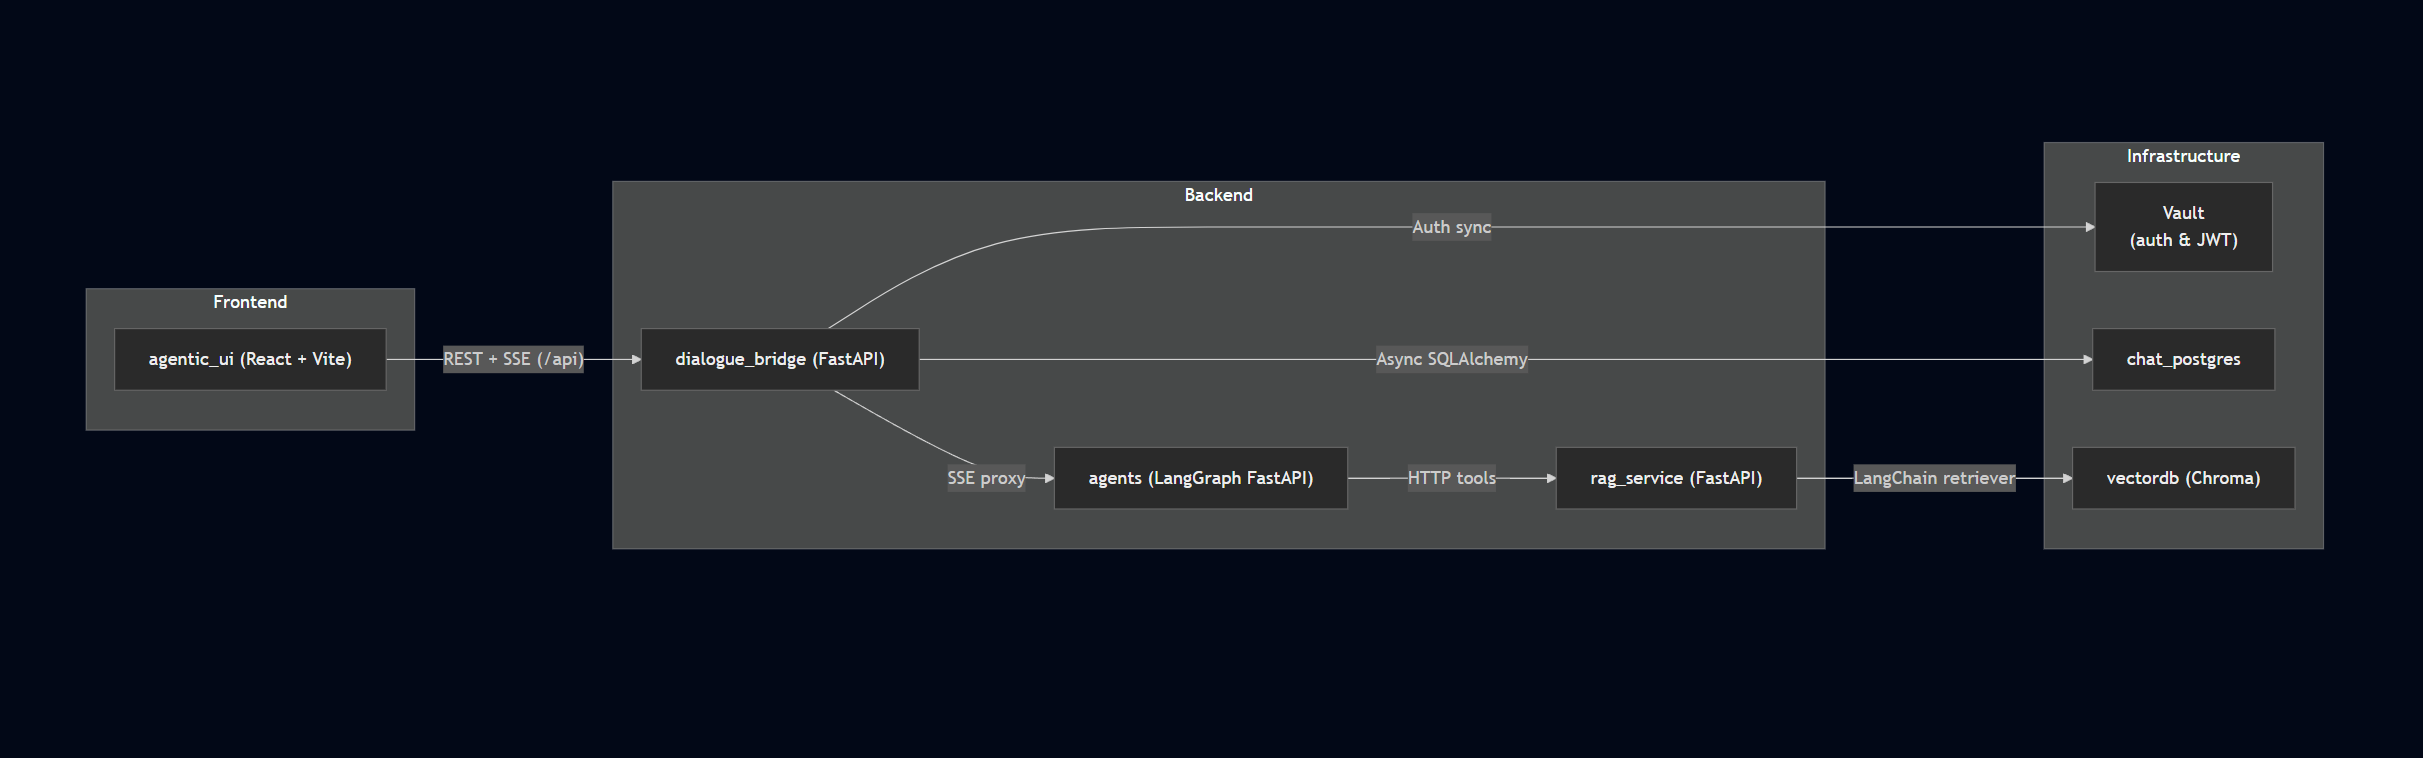
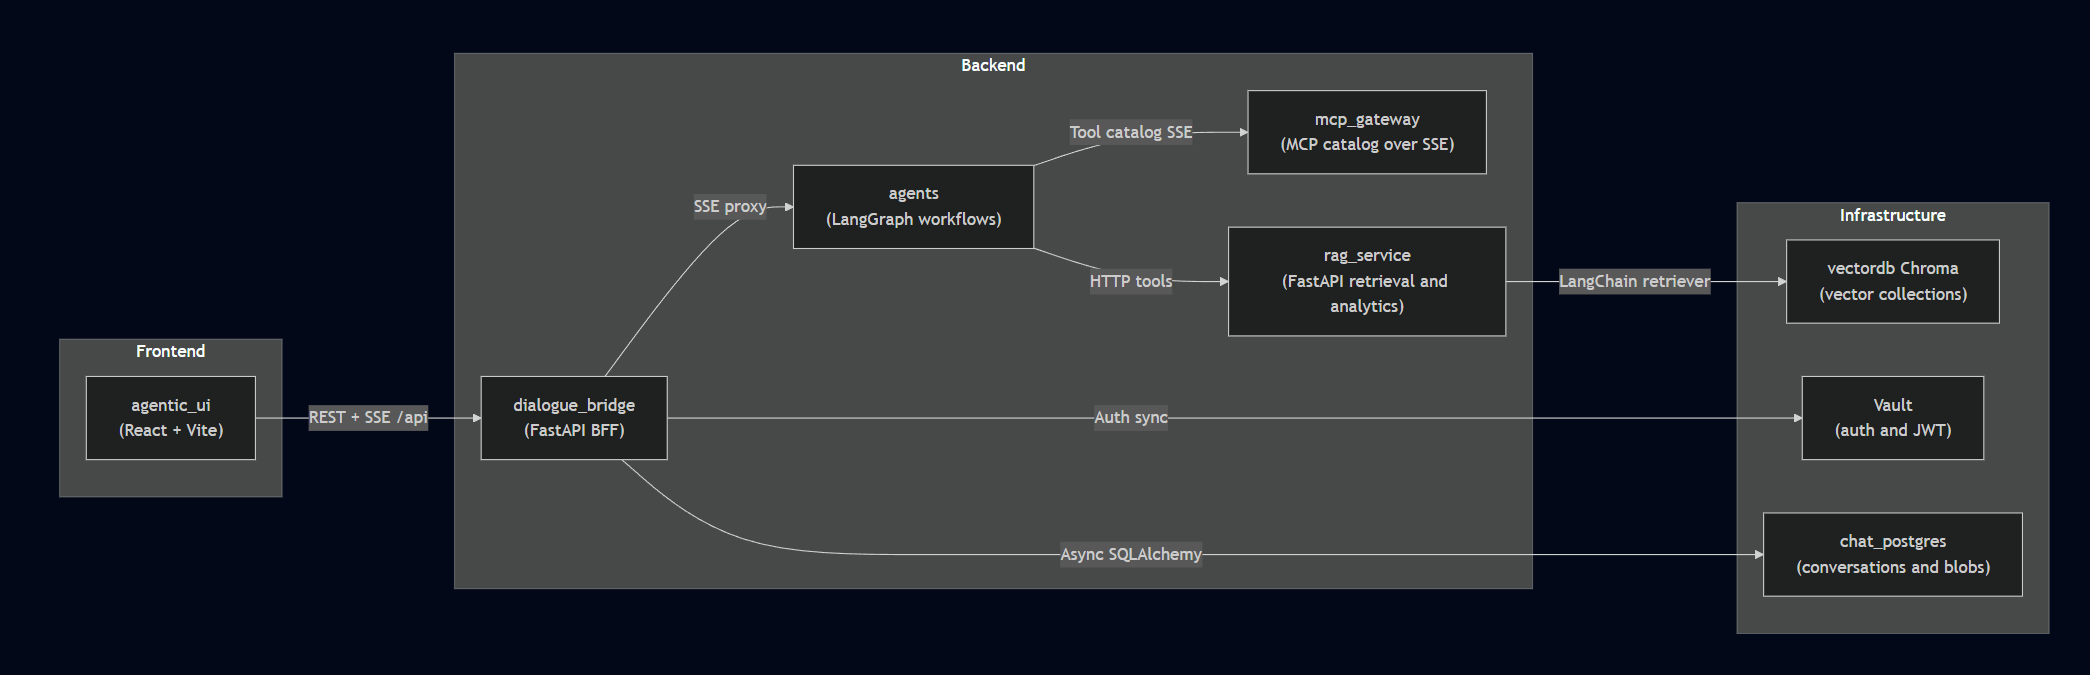
documentation update

diff --git a/src/agentic_ui/src/components/handlers/conversations.ts b/src/agentic_ui/src/components/handlers/conversations.ts
@@ -63,6 +63,7 @@ export function createConversationHandlers(ctx: ConversationsCtx) {
     persistUIState,
   } = ctx;
 
+
   const clearChatAndStopThinking = (options?: { preserveAgent?: boolean }) => {
     handleStopStreaming?.();
     setIsClearing(true);
@@ -84,13 +85,16 @@ export function createConversationHandlers(ctx: ConversationsCtx) {
     }, 200);
   };
 
+
   const handleTitleClick = () => {
     clearChatAndStopThinking();
   };
 
+
   const handleNewChat = () => {
     clearChatAndStopThinking();
   };
+
 
   const handleConversationSelect = async (conversation: ConversationSummary) => {
     handleStopStreaming?.();
@@ -130,6 +134,7 @@ export function createConversationHandlers(ctx: ConversationsCtx) {
     }, CLEAR_DELAY_MS);
   };
 
+
   const handleLoadMoreConversations = async () => {
     if (!userId || convIsLoadingMore || !convHasMore) return;
     setConvIsLoadingMore(true);
@@ -159,6 +164,7 @@ export function createConversationHandlers(ctx: ConversationsCtx) {
     }
   };
 
+
   const handleDeleteConversation = async (conversationId: string, event?: React.MouseEvent) => {
     event?.stopPropagation();
     if (!userId) return;
@@ -174,6 +180,7 @@ export function createConversationHandlers(ctx: ConversationsCtx) {
     }
   };
 
+
   const handleDeleteCurrentConversation = () => {
     if (!currentConversation?.id) {
       toast({ title: 'No conversation selected', description: 'Select a conversation to delete first.', duration: 2000 });
@@ -181,6 +188,7 @@ export function createConversationHandlers(ctx: ConversationsCtx) {
     }
     void handleDeleteConversation(currentConversation.id);
   };
+
 
   const handleRenameConversation = async (conversationId: string, newTitle: string) => {
     const trimmed = (newTitle || "").trim();
@@ -232,6 +240,7 @@ export function createConversationHandlers(ctx: ConversationsCtx) {
     }
   };
 
+
   const handleArchiveConversation = (conversationId?: string | null) => {
     if (!conversationId) {
       toast({ title: 'No conversation selected', description: 'Select a conversation to archive first.', duration: 2000 });
@@ -239,6 +248,7 @@ export function createConversationHandlers(ctx: ConversationsCtx) {
     }
     toast({ title: 'Archive coming soon', description: 'Conversation archiving is not available yet.', duration: 2500 });
   };
+
 
   const handleReportConversation = (conversationId?: string | null) => {
     if (!conversationId) {
@@ -248,21 +258,16 @@ export function createConversationHandlers(ctx: ConversationsCtx) {
     toast({ title: 'Report coming soon', description: 'Conversation reporting will be available soon.', duration: 2500 });
   };
 
+
   const handleArchiveCurrentConversation = () => {
     handleArchiveConversation(currentConversation?.id);
   };
+
 
   const handleReportCurrentConversation = () => {
     handleReportConversation(currentConversation?.id);
   };
 
-  const handleRenameCurrentConversation = (newTitle: string) => {
-    if (!currentConversation?.id) {
-      toast({ title: 'No conversation selected', description: 'Select a conversation to rename first.', duration: 2000 });
-      return;
-    }
-    void handleRenameConversation(currentConversation.id, newTitle);
-  };
 
   const handleOpenSearch = () => {
     if (ctx.onSearch) {
@@ -276,6 +281,7 @@ export function createConversationHandlers(ctx: ConversationsCtx) {
     });
   };
 
+
   return {
     handleConversationSelect,
     handleDeleteConversation,
@@ -287,7 +293,6 @@ export function createConversationHandlers(ctx: ConversationsCtx) {
     handleRenameConversation,
     handleArchiveConversation,
     handleReportConversation,
-    handleRenameCurrentConversation,
     handleArchiveCurrentConversation,
     handleReportCurrentConversation,
     handleOpenSearch,

diff --git a/src/agentic_ui/src/components/chat/ChatMessage.tsx b/src/agentic_ui/src/components/chat/ChatMessage.tsx
@@ -1,4 +1,4 @@
-import React, { useMemo } from "react";
+import { useMemo } from "react";
 import { Card } from "@/components/ui/card";
 import { Button } from "@/components/ui/button";
 import type { Agent, MessageOut, ThinkingState } from "@/lib/types";
@@ -9,10 +9,10 @@ import {
   ChainOfThoughtContent,
   ChainOfThoughtHeader,
 } from "@/components/ui/ai-elements/chain-of-thought";
-import { AIActionBar, UserActionBar } from "./body_parts/ActionBars";
-import { MessageAttachments } from "./body_parts/MessageAttachments";
-import { CoT, buildCoTSteps } from "./body_parts/ChainOfThought";
-import { MessageContent } from "./body_parts/MessageContent";
+import { AIActionBar, UserActionBar } from "./message_parts/ActionBars";
+import { MessageAttachments } from "./message_parts/MessageAttachments";
+import { CoT, buildCoTSteps } from "./message_parts/ChainOfThought";
+import { MessageContent } from "./message_parts/MessageContent";
 import { ShimmeringText } from "@/components/ui/shadcn-io/shimmering-text";
 
 type ChatMessageProps = {

diff --git a/src/agentic_ui/src/components/chat/ChatBody.tsx b/src/agentic_ui/src/components/chat/ChatBody.tsx
@@ -7,7 +7,7 @@ import type {
   MessageOut,
   ThinkingState,
 } from "@/lib/types";
-import type { AttachmentLike } from "./body_parts/MessageAttachments";
+import type { AttachmentLike } from "./message_parts/MessageAttachments";
 import { ChatMessage } from "./ChatMessage";
 
 type ChatBody = {

diff --git a/src/agentic_ui/src/pages/ChatPage.tsx b/src/agentic_ui/src/pages/ChatPage.tsx
@@ -484,7 +484,6 @@ export function ChatInterface() {
     handleRenameConversation,
     handleArchiveConversation,
     handleReportConversation,
-    handleRenameCurrentConversation,
     handleArchiveCurrentConversation,
     handleReportCurrentConversation,
     handleOpenSearch,

diff --git a/README.md b/README.md
@@ -23,6 +23,7 @@ The repository is organised as a suite of services that can run together through
 | Experience | `agentic_ui` renders the chat experience, handles auth/session lifecycle, and visualises AG-UI events. | React 18, Vite, Tailwind, Radix |
 | Orchestration | `dialogue_bridge` authenticates via HashiCorp Vault, persists conversations, and proxies LangGraph streams. | FastAPI, SQLAlchemy, asyncpg |
 | Intelligence | `agents` hosts persona-specific LangGraph workflows for OrthodoxAI, HR Policies, and Retail assistants. | LangGraph, LangChain, OpenAI |
+| Tool Catalog | `mcp_gateway` publishes a curated MCP tool catalog over SSE for the agents service. | Docker MCP Gateway |
 | Retrieval & Analytics | `rag_service` provides document retrieval and Excel/DuckDB analytics. `vectordb` stores persistent embeddings. | FastAPI, DuckDB, Chroma |
 | Storage & Security | `chat_postgres` and the Vault service give durable storage plus token issuance for the stack. | PostgreSQL, HashiCorp Vault |
 
@@ -37,6 +38,7 @@ The repository is organised as a suite of services that can run together through
 | `vectordb` | Internal Chroma server storing embeddings. | internal:8000 |
 | `chat_postgres` | Conversation and attachment persistence. | localhost:5432 |
 | `vault` | HashiCorp Vault for login + JWT issuance (internal network). | internal service |
+| `mcp_gateway` | MCP catalog over SSE consumed by the agents service. | internal:8005 |
 
 ## Request Flow
 
@@ -95,11 +97,40 @@ Run services independently when iterating. Each README in the corresponding dire
 | `src/dialogue_bridge/` | FastAPI bridge, SQLAlchemy models, Vault auth helpers. |
 | `src/agents/` | LangGraph agent templates, FastAPI entrypoint, shared tools. |
 | `src/rag_service/` | Retrieval + analytics microservice and data directory. |
+| `src/mcp_gateway/` | MCP gateway catalog, secrets, and server config for tool discovery. |
 | `src/vectorstores/` | Chroma persistence folder referenced by compose. |
 | `src/vault/` | Vault config, data storage, and bootstrap script. |
 | `notebooks/` | Exploratory notebooks and utilities that informed production code. |
 | `docs/` | Design notes and diagrams (when present). |
 | `src/docker-compose.yaml` | Compose orchestration for the full stack. |
+
+## Visual Walkthroughs
+
+### Network & Service Topology
+
+The first diagram shows how browser traffic hits the host at `localhost:8050`, passes through the agentic_ui Nginx container, and is proxied to the dialogue_bridge. From there SSE streams reach the agents, tool catalog is fetched from the mcp_gateway, retrieval calls go to rag_service, vectors live in Chroma, and chat state persists to Postgres with Vault handling JWTs. The second diagram groups the same services by frontend, backend, and infrastructure layers so you can see the split between UI, BFF + agents + MCP/RAG, and the auth/storage tier.
+
+![Network flow and container ports](docs/Screenshot%202025-10-31%20014810.png)
+![Frontend/Backend/Infra topology](docs/Screenshot%202025-10-31%20014854.png)
+
+### Chat & Data Flows
+
+This sequence captures a full chat turn: the UI posts the user message and attachments to the bridge, which stores them in Postgres, then streams inference via the agents. Agents pull tool manifests from the MCP gateway, optionally execute MCP tools or issue retrieval/analytics requests to rag_service and Chroma, and stream AG-UI frames back. The UI finally saves the AI reply through the bridge into Postgres.
+
+![Chat request lifecycle and RAG interactions](docs/Screenshot%202025-10-31%20014930.png)
+
+### Authentication Flow
+
+Here you can see credentials flowing from the UI to the bridge, then to Vault for userpass login and OIDC token exchange. The bridge receives JWT + client token, upserts the user locally, sets session/refresh cookies, and confirms the signed-in state.
+
+![Vault login, OIDC exchange, and session cookies](docs/Screenshot%202025-10-31%20014954.png)
+
+### Architecture & Platform Overview
+
+The component tree shows the core data plane: agentic_ui consuming REST/SSE from the bridge; the bridge authenticating via Vault, persisting conversations to Postgres, proxying SSE to agents; agents hitting MCP for tool catalogs and RAG for retrieval; RAG talking to Chroma and OpenAI for vectors/embeddings. The platform overview widens the lens to include users/admins, the platform services, and managed stores (Postgres, Vault, Chroma, OpenAI) with the extra admin path into the UI for configuration.
+
+![Component architecture tree](docs/Screenshot%202025-10-31%20015018.png)
+![End-to-end platform view (users, platform, stores/services)](docs/Screenshot%202025-10-31%20015842.png)
 
 ## Tooling & Workflow Tips
 

diff --git a/src/agentic_ui/README.md b/src/agentic_ui/README.md
@@ -3,27 +3,33 @@
 React + Vite 18 single-page app for the mAgenticX chat experience. It talks only to the dialogue bridge, streams AG-UI SSE frames, and renders agent thinking, tool calls, branches, and attachments in real time.
 
 ## What it does
+
 - Authenticates against the bridge, keeps session cookies fresh, and persists the signed-in user locally.
 - Renders the chat workspace with agent switching, paginated conversation history, private-mode toggles, branching, and message editing/retries.
-- Validates and uploads attachments, matching the proxy size limits before posting to the bridge.
-- Streams inference over SSE and paints thinking/tool frames incrementally.
+- Validates and uploads attachments (per-file, aggregate, and base64-inflated payload size) against the 600 MB proxy cap before posting to the bridge.
+- Streams inference over SSE and paints thinking/tool frames incrementally, including branch-aware `messagePath` replies from the bridge.
 - Provides voice dictation in the composer (WebAudio -> `/api/users/{userId}/dictation/transcribe` -> transcript dropped into the draft).
 - Surfaces the MCP tool catalog and per-user tool disablement in the profile panel; preferences are saved through the bridge and respected when sending inference configs.
+- Persists lightweight UI state (agents, tools, conversation summaries, sidebar tab, selected agent, private-mode toggle) in IndexedDB for fast reloads.
 
 ## Code map
+
 - `src/components/ChatPage.tsx` (exports `ChatInterface`) orchestrates the layout, state, streaming lifecycle, UI snapshot persistence, and handler wiring.
 - `src/components/chat/` holds the UI surfaces (header, sidebar, profile panel with MCP tools, message body, input bar with recorder).
-- `src/components/handlers/` are domain-specific state machines for auth/session refresh, agents roster, conversations + pagination, inference streaming, attachments, preferences, and UI affordances like sticky bars and branching.
-- `src/lib/api.ts` wraps every bridge endpoint (auth/session, agents, tools, preferences, dictation, conversations, attachments, inference) with credentialed fetch helpers.
-- `src/lib/uploadGuards.ts`, `src/lib/utils.ts`, `src/lib/authStorage.ts`, and `src/lib/uiStateStorage.ts` cover client-side validation, persistence, and utility helpers.
+- `src/components/handlers/` are domain-specific state machines for auth/session refresh, roster + tools fetch, conversations + pagination, inference streaming (SSE parsing and retries), attachments, preferences, branching, and UI affordances like sticky bars.
+- `src/lib/api.ts` wraps every bridge endpoint (auth/session, agents, tools, preferences, dictation, conversations, attachments, inference) with credentialed fetch helpers and SSE parsing.
+- `src/lib/uploadGuards.ts`, `src/lib/utils.ts`, `src/lib/authStorage.ts`, and `src/lib/uiStateStorage.ts` cover client-side validation (size limits aligned with Nginx), persistence, and utility helpers.
 - `nginx.conf`, Tailwind config, and the Dockerfile live here for production builds; the Nginx config bumps `client_max_body_size` and keeps SSE unbuffered.
 
 ## API expectations
+
 - The dev server runs on `http://localhost:8080`; `/api/*` must be proxied to the dialogue bridge (Compose already routes to `dialogue_bridge:8002`).
 - Voice dictation uses the bridge proxy for `/users/{userId}/dictation/transcribe` and expects `gpt-4o-transcribe` on the agents service.
 - MCP tool discovery/preferences use `/api/tools` and `/api/users/{userId}/preferences`, then annotate inference requests with the enabled tools list.
+- Nginx disables response buffering for `/api/*` so SSE frames and attachment downloads remain streaming; keep `client_max_body_size 600M` in sync with `PROXY_LIMIT_MB` in `uploadGuards.ts`.
 
 ## Development
+
 ```shell
 cd src/agentic_ui
 npm install
@@ -31,11 +37,14 @@ npm run dev
 ```
 
 ## Build & Deploy
+
 ```shell
 npm run build
 npm run preview   # static preview of the built assets
 ```
+
 The Dockerfile produces an nginx image; environment hints `BFF_HOST/BFF_PORT` are informational because the proxy target is baked into `nginx.conf`.
 
 ## Tooling
+
 `npm run lint` runs ESLint; Tailwind + shadcn provide the design system components.

diff --git a/src/mcp_gateway/README.md b/src/mcp_gateway/README.md
@@ -5,15 +5,18 @@ Wrapper around the `docker/mcp-gateway` image that serves a curated Model Contex
 ## What it does
 
 - Hosts the MCP tool catalog on `http://mcp_gateway:8005/sse` (SSE transport) so the agents service can discover tools via `MCP_TOOLS_HTTP_URL`.
-- Loads server definitions from `catalog.yaml` and limits the active set with the `--servers` flag passed in Compose (currently `tavily` by default).
-- Injects secrets from `mcp_secret.env` as a Docker secret (`/run/secrets/mcp_secret`) for catalog entries that need API keys.
+- Loads server definitions from `mcp_catalog.yaml` and limits the active set with the `--servers` flag passed in Compose (currently `tavily,arxiv-mcp-server`).
+- Injects secrets from `mcp_secret.env` as a Docker secret (`/app/secrets/mcp_secret.env`) for catalog entries that need API keys.
+- Passes server-specific config from `mcp_config.yaml` (e.g., the `arxiv-mcp-server` storage path) into the gateway.
 
 ## Files
 
-- `catalog.yaml` – Docker MCP catalog used by the gateway; edit to add/remove servers or tweak metadata.
-- `mcp_secret.env` – key/value pairs for MCP server credentials (e.g. `tavily.api_token=...`). Update this before running the gateway.
+- `mcp_catalog.yaml` – Docker MCP catalog used by the gateway; edit to add/remove servers or tweak metadata. Compose mounts this read-write if you need to iterate locally.
+- `mcp_config.yaml` – optional per-server configuration (e.g., `arxiv-mcp-server.storage_path`).
+- `mcp_secret.env` – key/value pairs for MCP server credentials (e.g. `tavily.api_token=...`). `mcp_sercret.example.env` is a typoed sample to copy from—rename it to `mcp_secret.env` when filling in secrets.
 
 ## Running
 
-- Docker Compose starts the container with `--transport=sse --port=8005 --catalog=./app/catalog.yaml --servers=tavily --secrets=/run/secrets/mcp_secret` and mounts the Docker socket for servers that require it.
+- Docker Compose starts the container with `--transport=sse --port=8005 --servers=tavily,arxiv-mcp-server --catalog=./app/mcp_catalog.yaml --config=./app/mcp_config.yaml --secrets=/app/secrets/mcp_secret.env` and mounts the Docker socket for servers that require it.
 - Agents use `http://mcp_gateway:8005/sse`; adjust `MCP_TOOLS_HTTP_URL` in the agents service if you change the port or transport.
+- To enable more MCP servers, add them to `mcp_catalog.yaml`, supply any required credentials in `mcp_secret.env`, and append their ids to the `--servers` flag in `src/docker-compose.yaml`.
